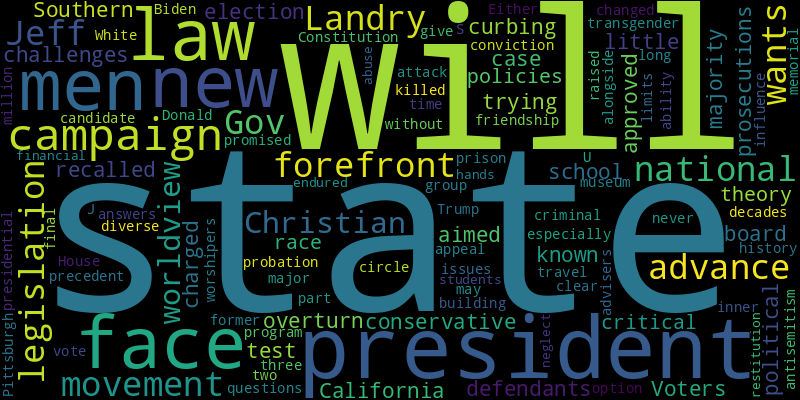
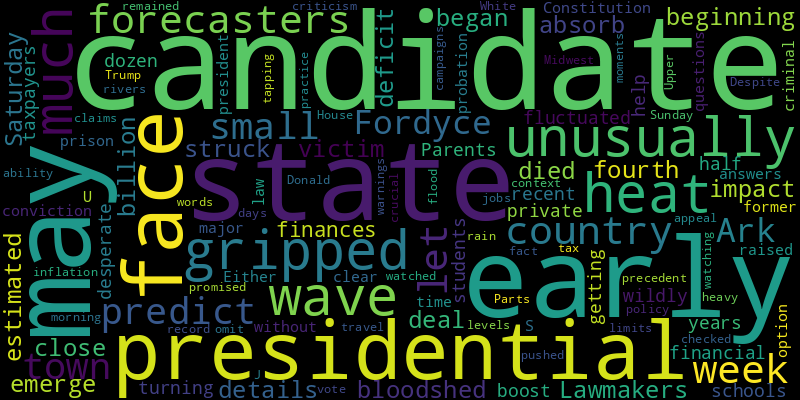
chore(bot): 🐐 auto commit

diff --git a/README.md b/README.md
@@ -2,41 +2,41 @@
 Auto RSS New York Times and Generate Word Cloud
 
 ## New York Times Global News
+* Björn Höcke has done more than take the far right into the mainstream. He is tilting the mainstream toward the far right.
+* A tear-jerker from Thailand, “How to Make Millions Before Grandma Dies,” has become a surprise hit across the region. Its theme is universal: bonding with family.
+* Despite being aware of the devastation in the enclave, many in Israel ask why they should show pity when Palestinians there showed none on Oct. 7.
+* In France, as in the United States, feelings harden against immigrants, and President Emmanuel Macron and President Biden take note.
+* The action against 16 tour companies came as governments look into whether many travelers were not properly registered to make the journey into the desert.
+* The Israeli military said fighter jets had targeted “Hamas military infrastructure” at two sites. Gazan authorities reported multiple dead and said people were trapped under rubble.
 * For many performers, drag is not only a cultural phenomenon, but also a political statement promoting social justice and gay rights.
-* A soccer championship has doubled as a test of identity for millions of Germans with Turkish roots. For many, picking one team to support was an easy decision.
 * The next Mexican president’s years of living in California provide insight into how she will handle key issues in Mexico-Washington ties.
 * The pope used homophobic slang and cautioned prelates about admitting gay men into seminaries. But ordination has also long been a refuge for gay faithful.
-* His embrace of North Korea and deal making with Vietnam injected more potential threats into a region already strained by Taiwan tensions and South China Sea clashes.
-* His support for North Korea’s military ambitions showed he can inflict pain on the U.S. and its NATO allies in ways beyond aggression in Ukraine.
-* The inspections in Michoacán, the Mexican state responsible for most avocado exports to the U.S., were suspended last weekend because of security concerns.
-* As many as 25 people were killed and 50 wounded on Friday in a strike in Al-Mawasi, in southern Gaza near the city of Rafah, according to aid agencies and Gazan health officials.
-* Israeli judges have long ruled that Israel’s control of the territory is a temporary military occupation and complies with international law. A powerful minister’s recent speech, caught on tape, suggested the government is trying to change that.
-* Fearful that conscription is a one-way ticket to bloody trench warfare, the men spend their days holed up at home to avoid draft officers who roam the streets.
+* A soccer championship has doubled as a test of identity for millions of Germans with Turkish roots. For many, picking one team to support was an easy decision.
 
 ![Global](./global.png)
 ## New York Times United States News
-* Gov. Jeff Landry wants his state to be at the forefront of a national movement to advance legislation with a Christian worldview.
-* The challenges from defendants charged with trying to overturn the 2020 election will be a test case for a new but little-known state law aimed at curbing political prosecutions.
-* Voters recalled a Southern California school board president after his conservative majority approved policies on critical race theory and transgender issues.
-* The decades-long friendship of two men who never especially changed.
+* The unusually early heat wave that has gripped much of the country may let up early this week, forecasters predict.
+* The small town of Fordyce, Ark., was beginning to absorb the impact of the bloodshed, as a few details began to emerge. A fourth victim died on Saturday.
+* Lawmakers struck a deal to close a state deficit estimated at $47 billion. State finances have fluctuated wildly in recent years.
+* Parents, desperate for help, are turning to private schools with a half-dozen or so students. And they are getting a financial boost from taxpayers.
 * The Constitution and U.S. law have clear answers for only some of the questions raised by the criminal conviction of a major presidential candidate.
 * The former president could face probation or prison time. Either option would be without precedent.
 * Donald J. Trump has promised to appeal, but he may face limits on his ability to travel and to vote as he campaigns for the White House.
-* A museum on the history of antisemitism will be part of the new building, alongside a memorial to the 11 worshipers killed in the 2018 attack in Pittsburgh.
-* President Biden has a diverse group of advisers, but few have the influence of three men in his inner circle during his final campaign.
-* A $20 million program will give financial restitution to students who endured abuse and neglect at the hands of the state.
+* Parts of the Upper Midwest remained under flood warnings on Sunday morning, after days of heavy rain pushed some rivers to record levels.
+* We fact-checked claims about inflation, jobs and tax policy from both presidential candidates.
+* Despite criticism that the most-watched moments omit crucial context, candidates are tapping into the practice — and watching their words.
 
 ![US](./usnews.png)
 ## New York Times Asia News
+* For nearly a decade, I worked in China as a Times correspondent and bureau chief. But it wasn’t until researching for a book that I uncovered the full story of my father’s role in Communist rule.
+* A tear-jerker from Thailand, “How to Make Millions Before Grandma Dies,” has become a surprise hit across the region. Its theme is universal: bonding with family.
+* The economic minister of Germany, whose auto sector is enmeshed with China, met with Chinese officials as the E.U. moves to impose tariffs on electric cars.
+* Consumption of tainted bootleg alcohol has caused several instances of mass deaths in recent years as drinkers seek out illicit liquor to save money or evade the law.
 * For many performers, drag is not only a cultural phenomenon, but also a political statement promoting social justice and gay rights.
 * His embrace of North Korea and deal making with Vietnam injected more potential threats into a region already strained by Taiwan tensions and South China Sea clashes.
 * His support for North Korea’s military ambitions showed he can inflict pain on the U.S. and its NATO allies in ways beyond aggression in Ukraine.
 * The Treasury Department unveiled rules to curb financing of Chinese semiconductors, quantum computers and artificial intelligence systems.
 * A Swiss criminal court handed prison sentences to members of the Hinduja family for exploiting domestic workers at their villa in Geneva.
 * Na Kyung Taek’s photos bore witness — and helped bring international attention — to the military junta’s brutal suppression of a pro-democracy uprising in Gwangju, South Korea, in 1980.
-* A lawsuit challenges the onerous requirements for getting sterilized, calling the regulations paternalistic and a violation of women’s constitutional rights.
-* Also, a rift in Israel over the war in Gaza.
-* The Russian leader issued the warning at the end of a trip to Asia, during which he signed a mutual defense pact with North Korea’s leader, Kim Jong-un.
-* An art world power, she represented more than 70 artists and estates and ran two large exhibition spaces in Manhattan as well as offshoots abroad.
 
 ![Asian](./asian.png)
